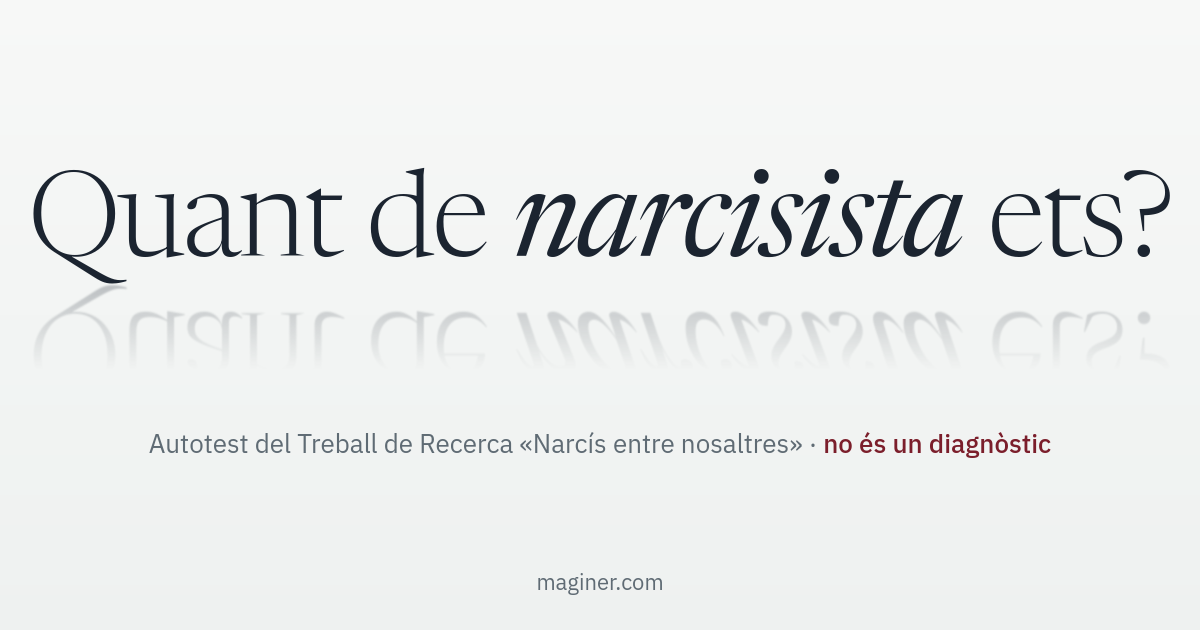
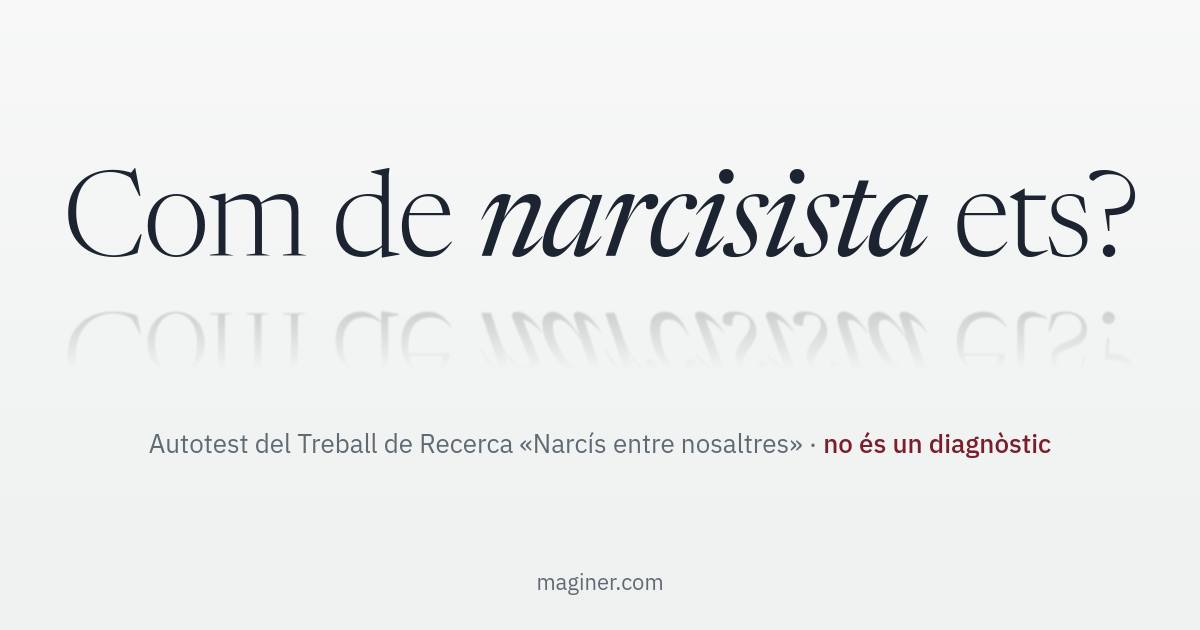
fix: títol en català normatiu («Com de narcisista ets?») i un ítem sense castellanisme
«Quant de + adjectiu» és un calc del castellà; la forma catalana és «com de».
L'ítem d'exhibicionisme «Disfruto quan la gent es fixa en mi» passa a
«M'agrada que la gent es fixi en mi» (disfrutar no és al DIEC). Imatge per
compartir regenerada.

diff --git a/src/scripts/scoring.ts b/src/scripts/scoring.ts
@@ -53,7 +53,7 @@ export function score(answers: ReadonlyArray<number | null>, items: ReadonlyArra
 export function resultText(r: Result): string {
   const lines = r.dims.map((d) => `  ${d.dim}: ${d.pct} %`).join('\n');
   return [
-    'Autotest «Quant de narcisista ets?» (tret, no diagnòstic)',
+    'Autotest «Com de narcisista ets?» (tret, no diagnòstic)',
     `Resultat global: ${r.pct} % (${r.band.name})`,
     'Perfil per dimensions:',
     lines,

diff --git a/scripts/og/og.html b/scripts/og/og.html
@@ -64,8 +64,8 @@
     </style>
   </head>
   <body>
-    <div class="t">Quant de <em>narcisista</em> ets?</div>
-    <div class="r">Quant de <em>narcisista</em> ets?</div>
+    <div class="t">Com de <em>narcisista</em> ets?</div>
+    <div class="r">Com de <em>narcisista</em> ets?</div>
     <div class="s">Autotest del Treball de Recerca «Narcís entre nosaltres» · <b>no és un diagnòstic</b></div>
     <div class="d">maginer.com</div>
   </body>

diff --git a/src/scripts/card.ts b/src/scripts/card.ts
@@ -124,7 +124,7 @@ export async function renderCard(r: Result): Promise<Blob> {
   ctx.textAlign = 'center';
   ctx.fillStyle = SOFT;
   ctx.font = `italic 400 40px ${SERIF}`;
-  ctx.fillText('Quant de narcisista ets?', W / 2, 96);
+  ctx.fillText('Com de narcisista ets?', W / 2, 96);
   ctx.fillStyle = MUTED;
   ctx.font = `400 24px ${SANS}`;
   ctx.fillText('Autotest del Treball de Recerca «Narcís entre nosaltres»', W / 2, 138);

diff --git a/src/data/items.ts b/src/data/items.ts
@@ -55,7 +55,7 @@ const BANK: Record<Dim, ReadonlyArray<{ text: string; rev?: boolean }>> = {
   ],
   Exhibicionisme: [
     { text: "M'agrada ser el centre d'atenció en una festa o una reunió." },
-    { text: 'Disfruto quan la gent es fixa en mi.' },
+    { text: "M'agrada que la gent es fixi en mi." },
     { text: "Prefereixo passar desapercebut abans que cridar l'atenció.", rev: true },
   ],
   Explotació: [

diff --git a/src/scripts/result.ts b/src/scripts/result.ts
@@ -144,7 +144,7 @@ export function createResultView(opts: ResultOptions): ResultView {
   btnShare.hidden = !canShare;
   btnShare.addEventListener('click', async () => {
     if (!last) return;
-    const title = 'Quant de narcisista ets?';
+    const title = 'Com de narcisista ets?';
     const text = resultText(last);
     try {
       const file = cardFile(await renderCard(last));

diff --git a/README.md b/README.md
@@ -1,4 +1,4 @@
-# Narcís entre nosaltres · «Quant de narcisista ets?»
+# Narcís entre nosaltres · «Com de narcisista ets?»
 
 Autotest de 21 ítems sobre el narcisisme com a **tret** de personalitat, material complementari del Treball de
 Recerca _Narcís entre nosaltres. Estudi psicològic del narcisisme i del TNP_ (INS Corbera, 2n de batxillerat,
